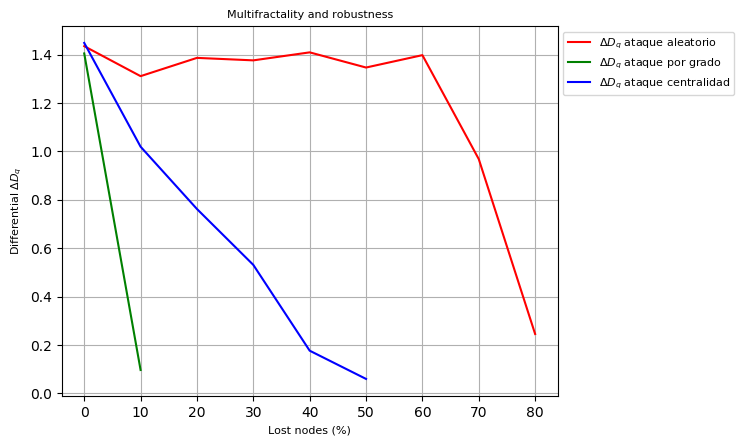
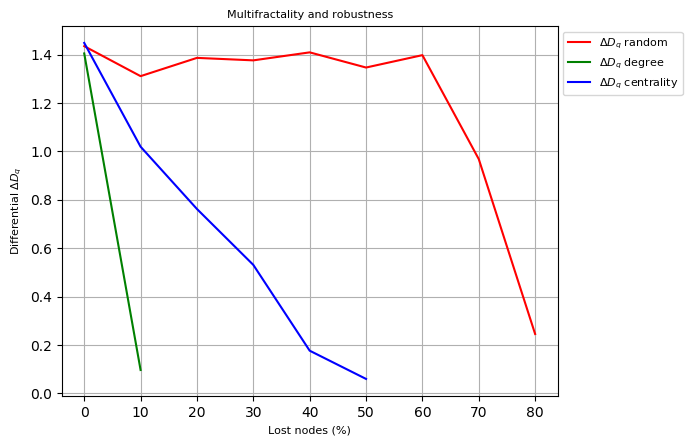
cambios

diff --git a/implementacion/lamfria/Results/Graphics/article/discusionEnglish/generarGraficas.py b/implementacion/lamfria/Results/Graphics/article/discusionEnglish/generarGraficas.py
@@ -273,9 +273,9 @@ for i in range(0,9):
 		deltaB = numpy.append(deltaB, numpy.max(DqDegree[i][IndexZero:-1])-numpy.min(DqDegree[i][IndexZero:-1]))
 	if i < DqCentrality.shape[0]:
 		deltaC = numpy.append(deltaC, numpy.max(DqCentrality[i][IndexZero:-1])-numpy.min(DqCentrality[i][IndexZero:-1]))
-plt.plot(range(0,10*deltaA.shape[0],10),deltaA,'r-' , label = r'$\Delta D_q$ ataque aleatorio')
-plt.plot(range(0,10*deltaB.shape[0],10),deltaB,'g-' , label = r'$\Delta D_q$ ataque por grado')
-plt.plot(range(0,10*deltaC.shape[0],10),deltaC,'b-' , label = r'$\Delta D_q$ ataque centralidad')
+plt.plot(range(0,10*deltaA.shape[0],10),deltaA,'r-' , label = r'$\Delta D_q$ random')
+plt.plot(range(0,10*deltaB.shape[0],10),deltaB,'g-' , label = r'$\Delta D_q$ degree')
+plt.plot(range(0,10*deltaC.shape[0],10),deltaC,'b-' , label = r'$\Delta D_q$ centrality')
 fontP = FontProperties()
 fontP.set_size('small')
 plt.xlabel('Lost nodes (%)', fontdict=font)
